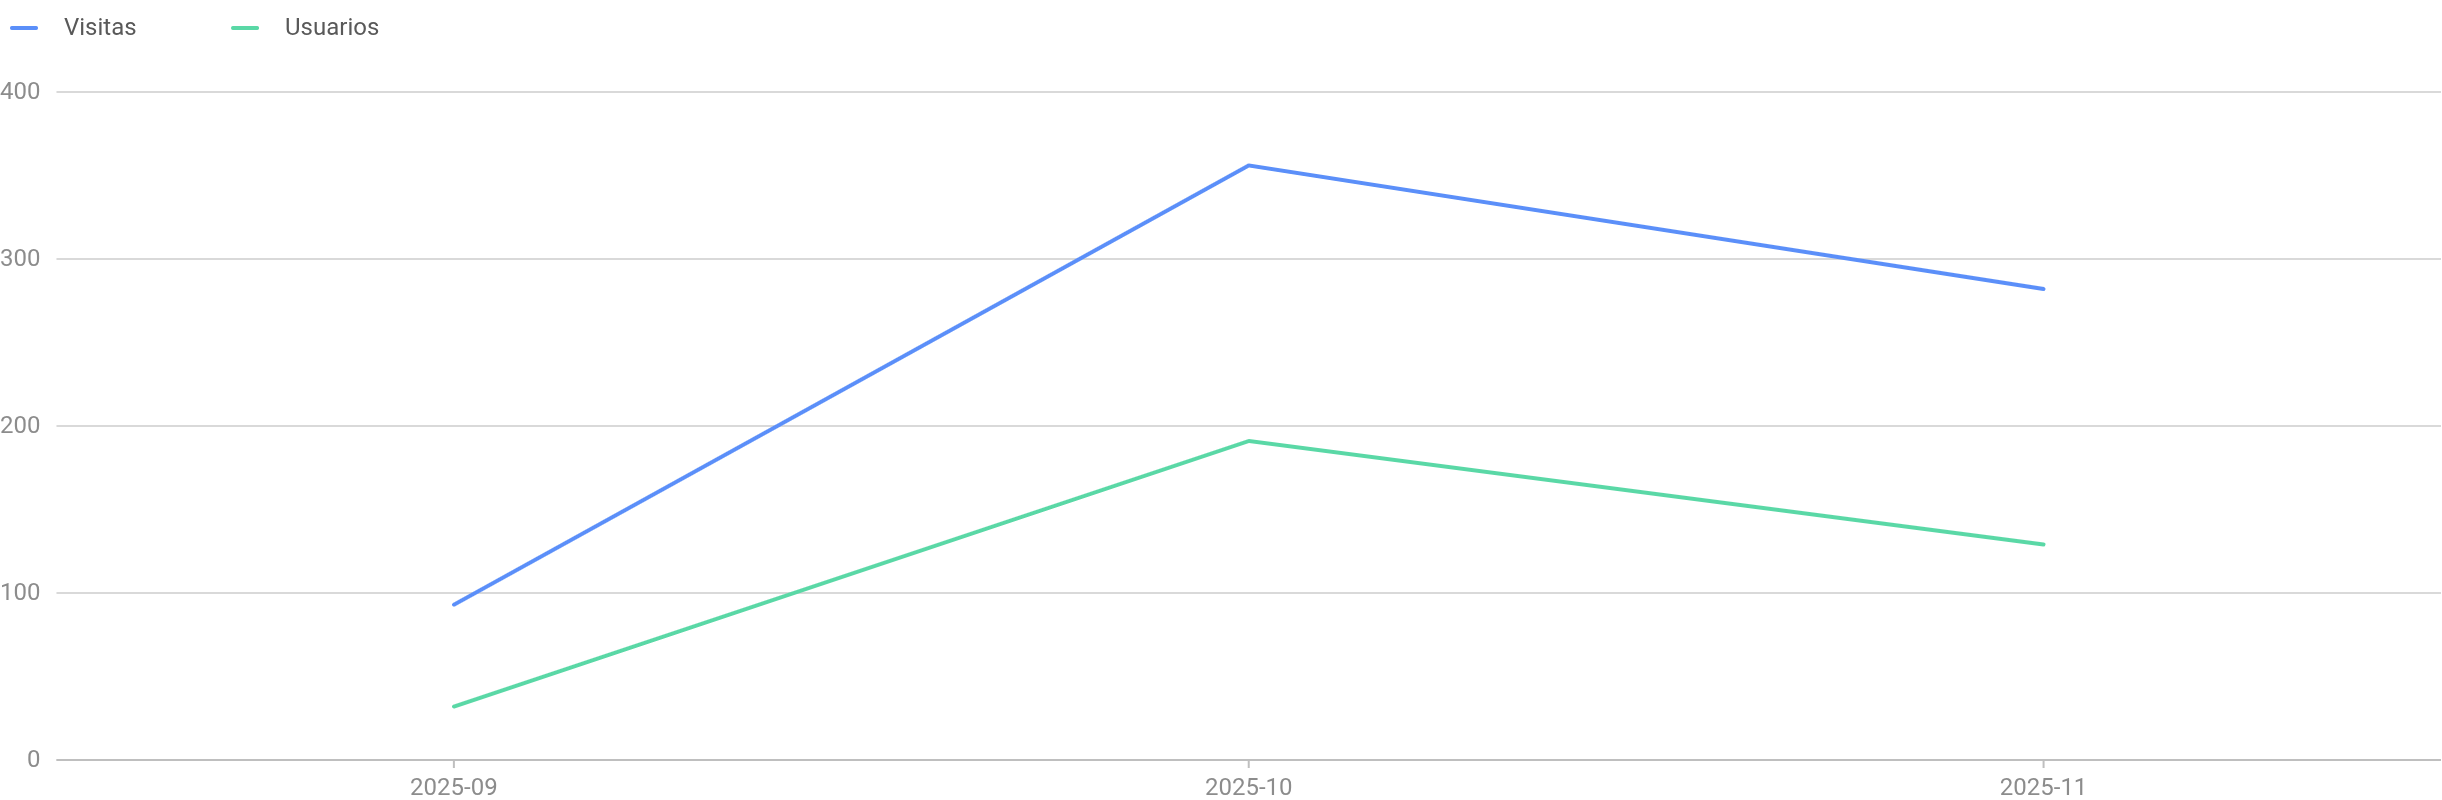
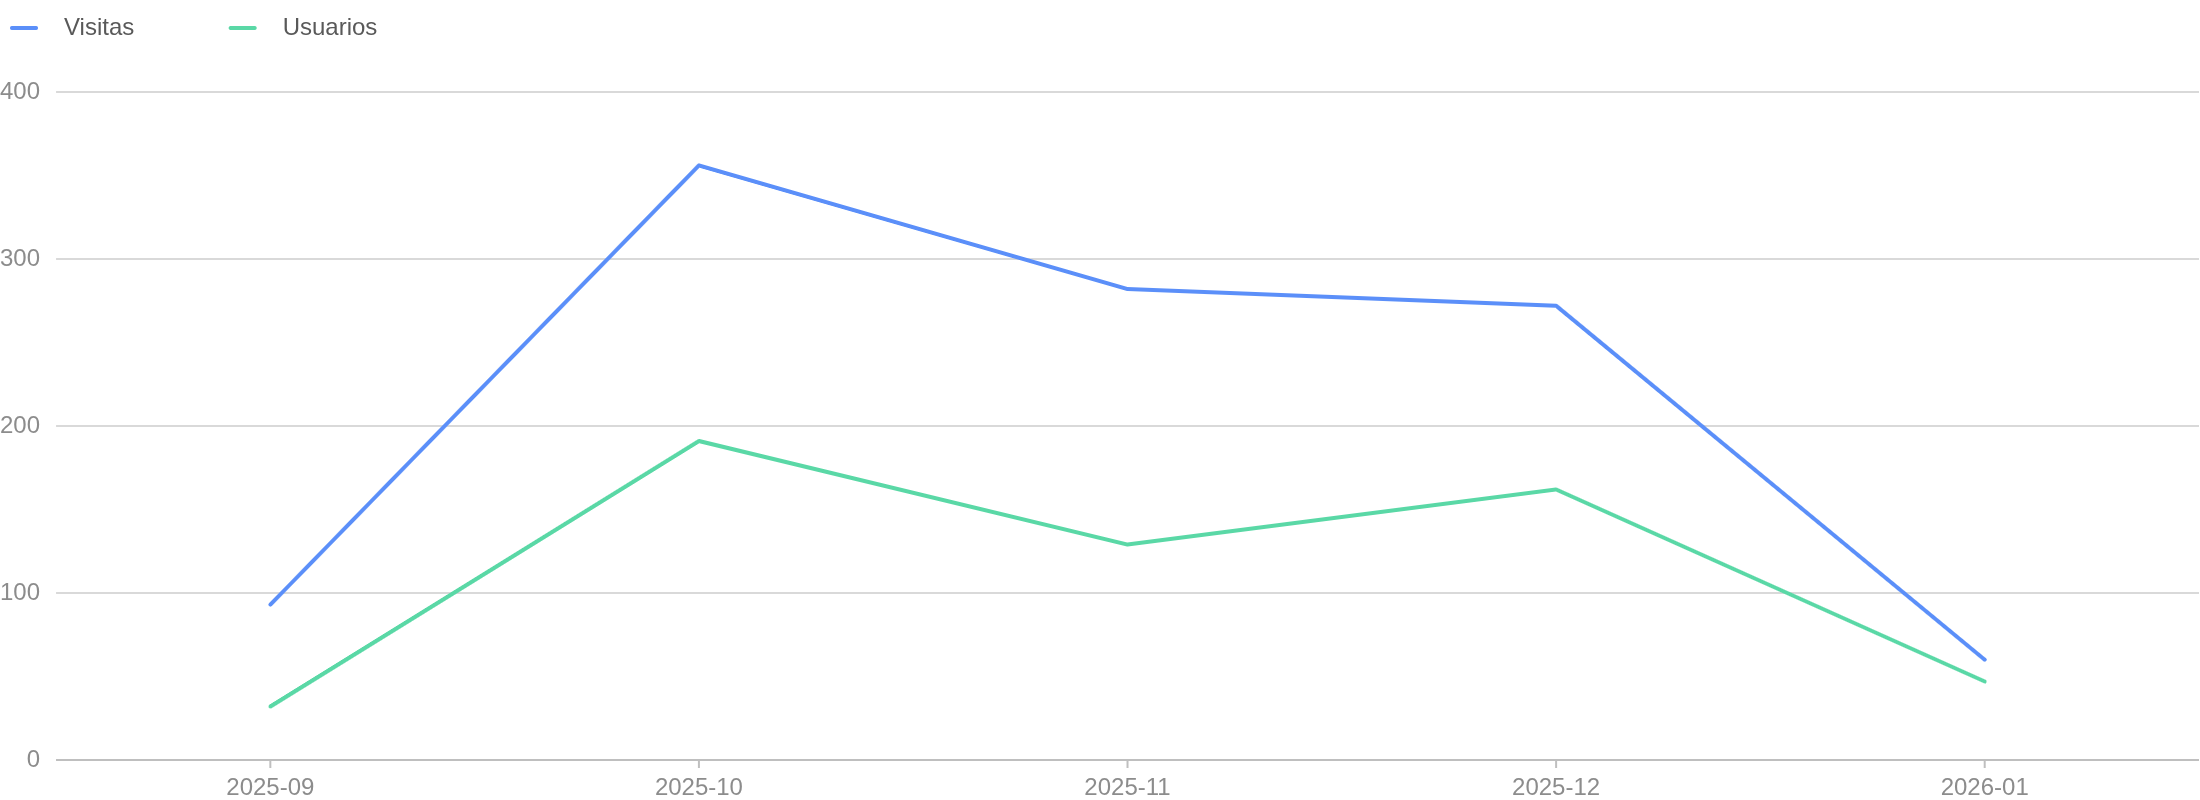
Quartz sync: Jan 26, 2026, 7:52 PM

diff --git a/content/media/Estatísticas/Gráficos.md b/content/media/Estatísticas/Gráficos.md
@@ -30,6 +30,18 @@ data:
   - label: 2025-11
     serie: Usuarios
     value: 129
+  - label: 2025-12
+    serie: Visitas
+    value: 272
+  - label: 2025-12
+    serie: Usuarios
+    value: 162
+  - label: 2026-01
+    serie: Visitas
+    value: 60
+  - label: 2026-01
+    serie: Usuarios
+    value: 47
 
 options:
   xField: label
